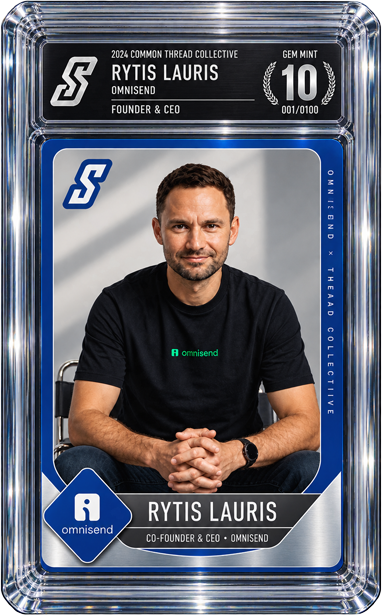
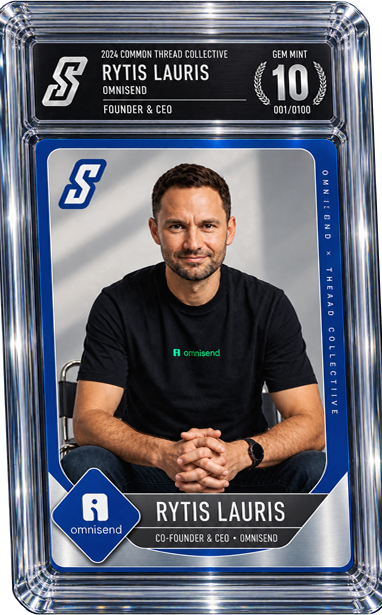
Straightened card PNG + removed CSS rotation

diff --git a/app/globals.css b/app/globals.css
@@ -79,7 +79,7 @@ a { color: inherit; text-decoration: none; }
 }
 
 .carousel-card {
-  transform: rotate(3deg);
+
   width: auto;
   flex-shrink: 0;
   border-radius: 10px;
